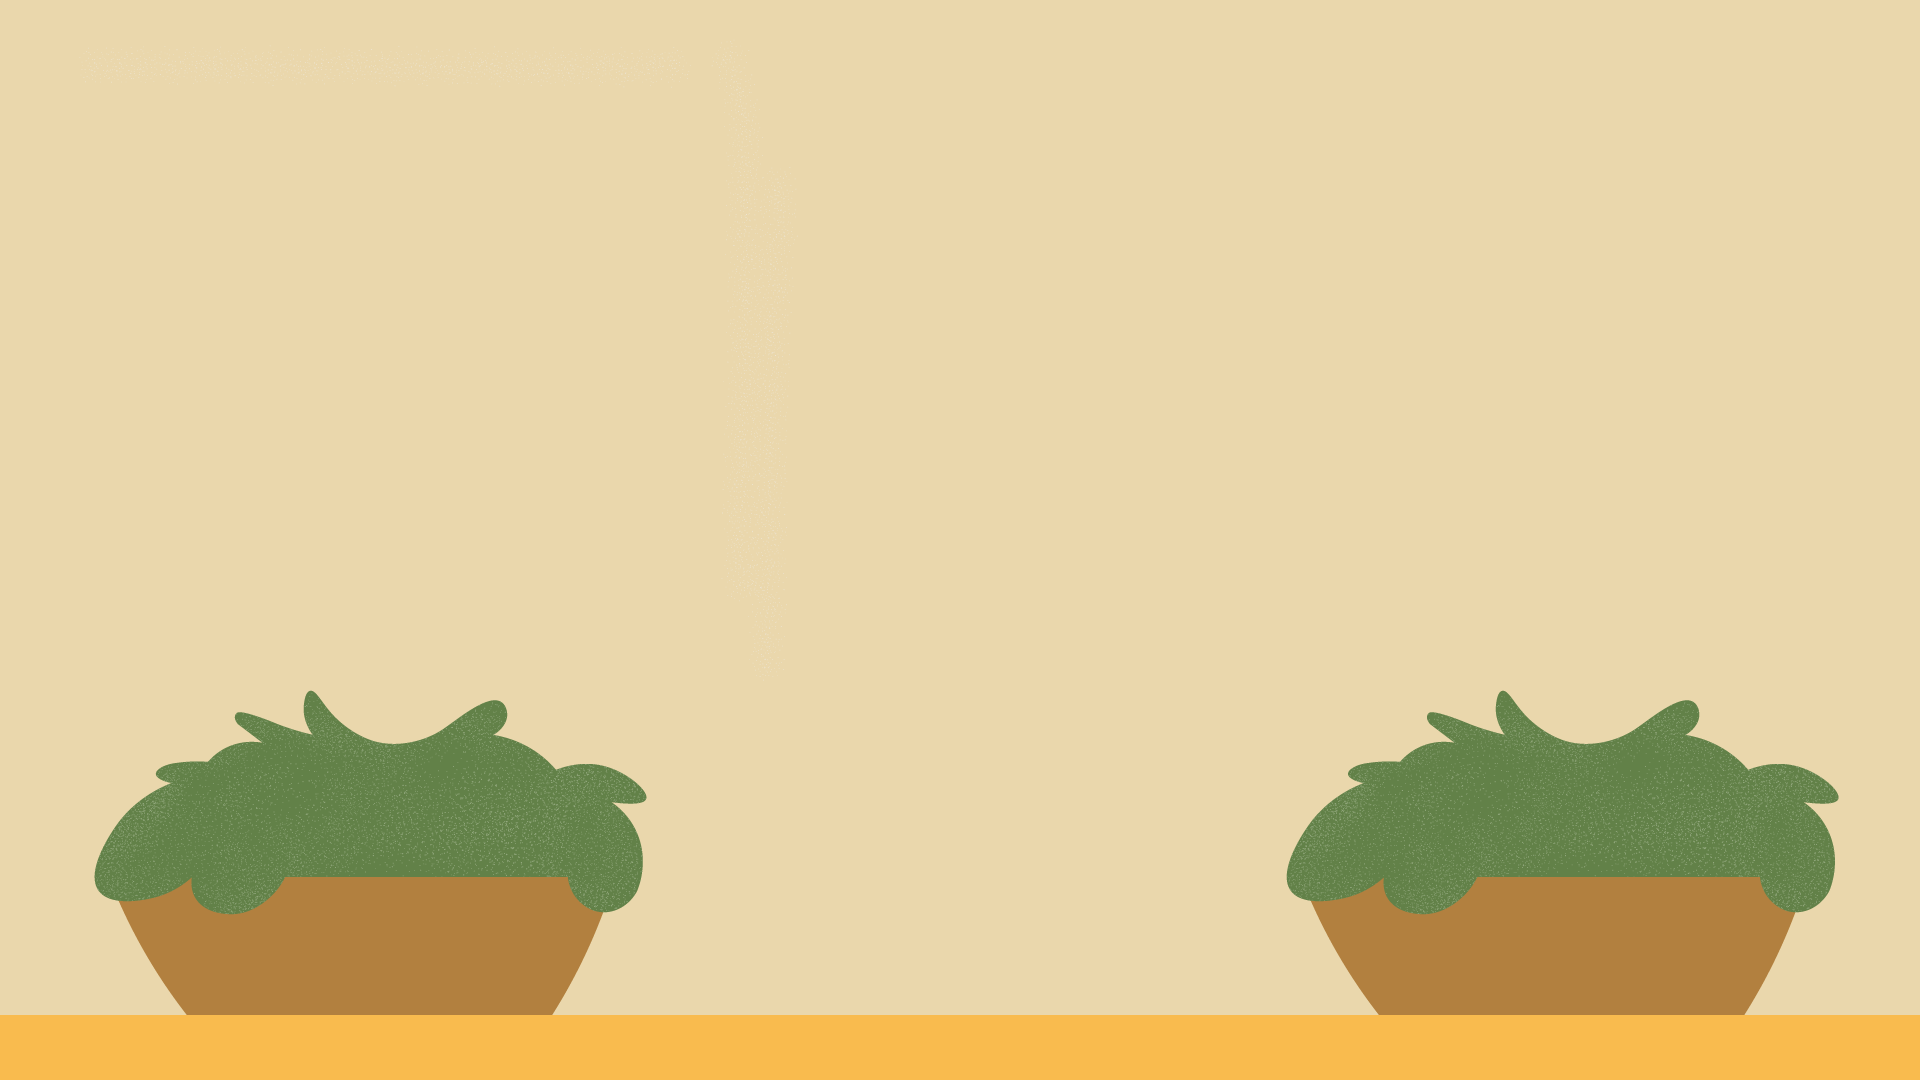
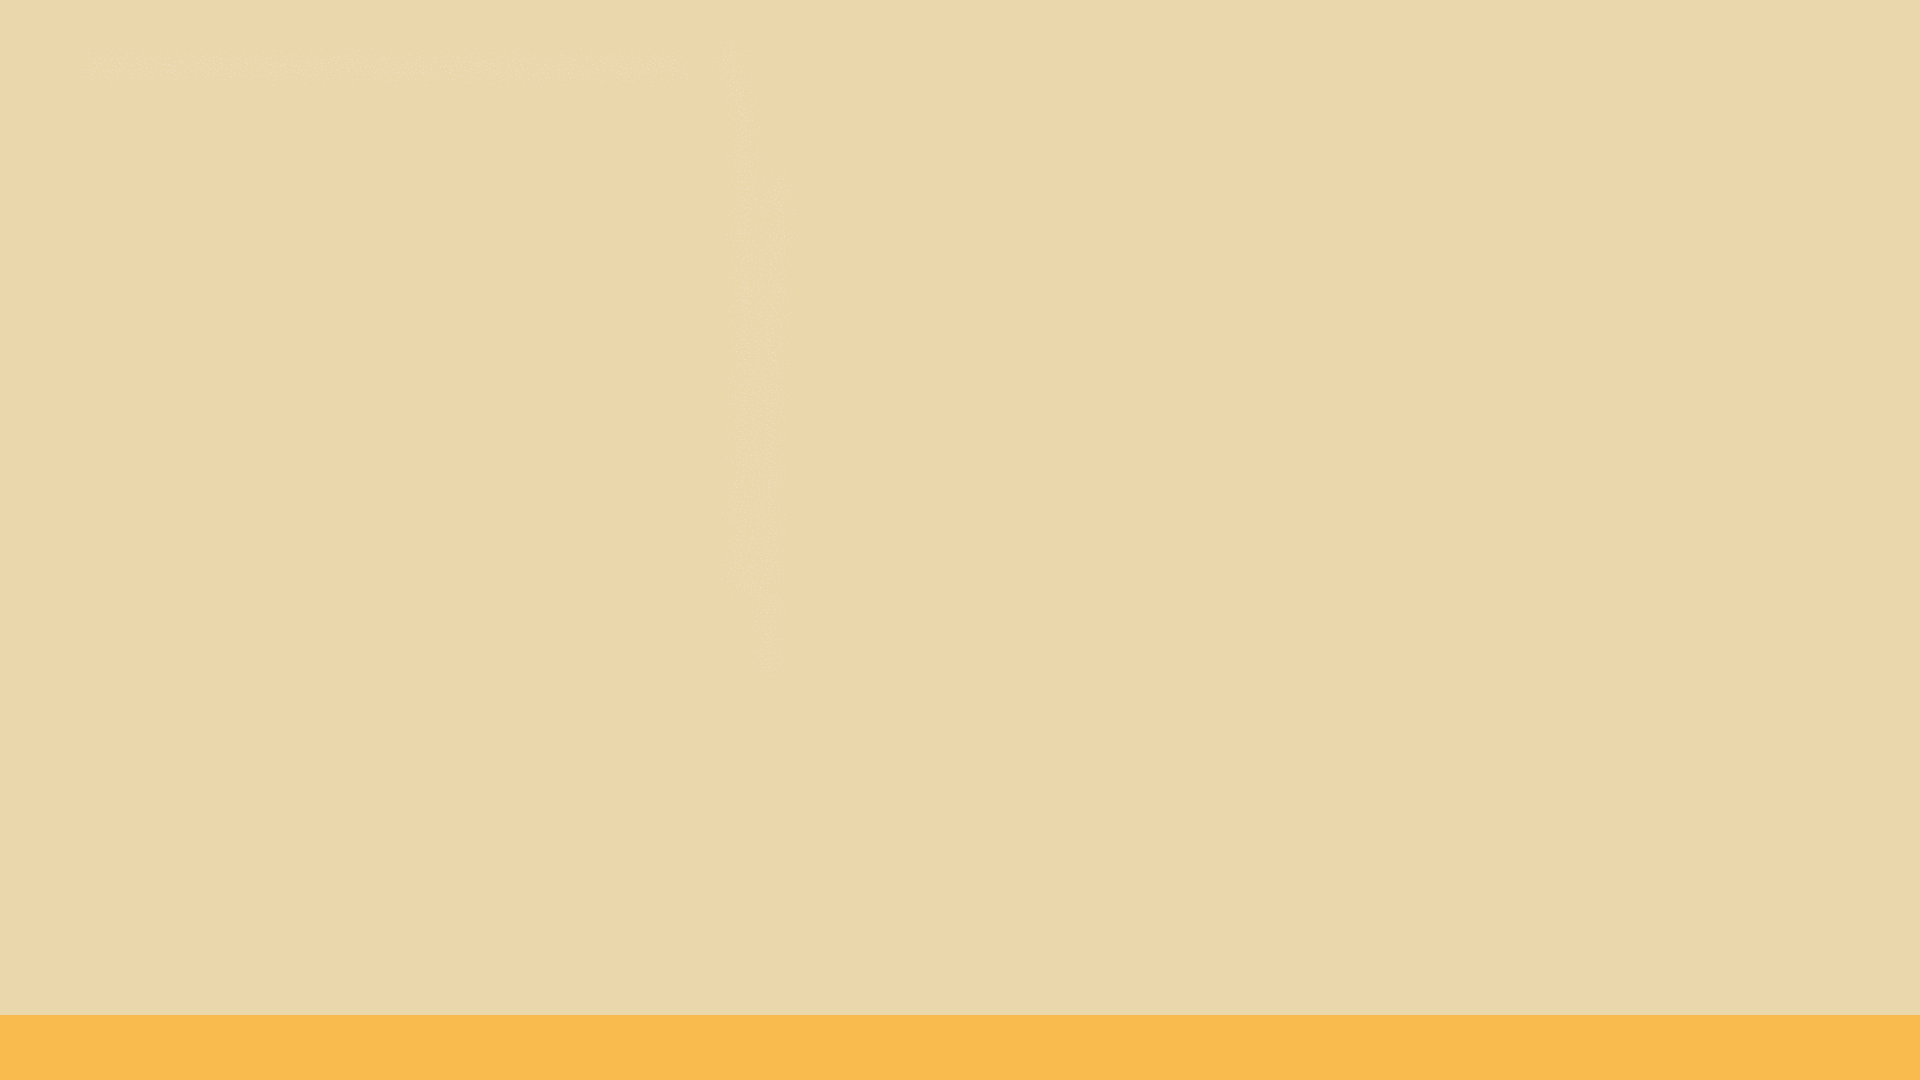
Add files via upload

Changed region(s): [[0.6562, 0.6417, 0.9688, 0.9472], [0.0312, 0.6417, 0.3438, 0.9472]]

diff --git a/styles.css b/styles.css
@@ -31,8 +31,8 @@ body {
 
 .fixture {
 	position: absolute;
-	visibility: hidden
-	height: 10vw;
+	visibility: hidden;
+	height: 20vw;
 	left: 20vw;
 	bottom: 6vh;
 }
